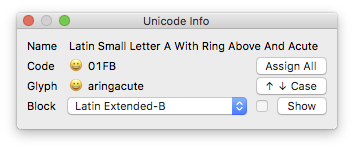
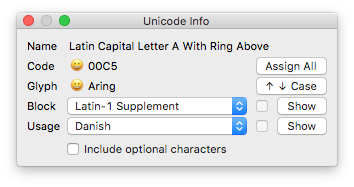
Update the help page

Changed region(s): [[0.0311, 0.08, 0.9633, 0.8267], [0.0311, 0.8533, 0.9633, 0.9067]]

diff --git a/UnicodeInfo.roboFontExt/html/index.html b/UnicodeInfo.roboFontExt/html/index.html
@@ -26,7 +26,7 @@
 		<p>Unicode Info is a floating window that displays various bits of information about the current glyph, like expected glyph name, Unicode, and Unicode block. It has buttons to jump to the corresponding upper- or lowercase letter, show any Unicode block in your font to find any missing glyphs, and to assign Unicodes to all glyphs in the current font.</p>
 		
 		<h2>Interface</h2>
-		<p><img src="dialog.png" width="354" height="150" alt=""></p>
+		<p><img src="dialog.png" width="354" height="187" alt=""></p>
 		
 		<h2>Buttons</h2>
 		<table>
@@ -46,12 +46,17 @@
 				<td>Jump to the uppercase or lowercase version of the current glyph. Not all glyphs have upper- or lowercase mappings.</td>
 			</tr>
 			<tr>
-				<td>Show</td>
+				<td>Show (Block)</td>
 				<td>—</td>
-				<td>Show the selected Unicode block in the current font. Between start and end marker glyphs, all glyphs for the selected block will be added to the glyph order. Missing glyphs will be shown empty or as template glyphs. Undefined codepoints are omitted.</td>
+				<td>Show the selected Unicode block in the current font. Between start and end marker glyphs, all glyphs for the selected block will be added to the glyph order. Missing glyphs will be shown empty or as template glyphs. Undefined codepoints are included.</td>
+			</tr>
+			<tr>
+				<td>Show (Usage)</td>
+				<td>—</td>
+				<td>Show all glyphs for the selected orthography in the current font. The different levels of support are marked by glyphs called _BASE_ for required letters, _PUNCT_ for punctuation, and, if you have checked the <em>Include optional characters</em> checkbox, _OPTIONAL_. Between start and end marker glyphs, all glyphs for the selected block will be added to the glyph order. Missing glyphs will be shown empty or as template glyphs. Data is based on the Unicode <em>Common Locale Data Repository.</em></td>
 			</tr>
 		</table>
 		<hr>
-		<p>Unicode Info is © 2017 by Jens Kutilek.</p>
+		<p>Unicode Info is © 2017–2021 by Jens Kutilek.</p>
 	</body>
 </html>
